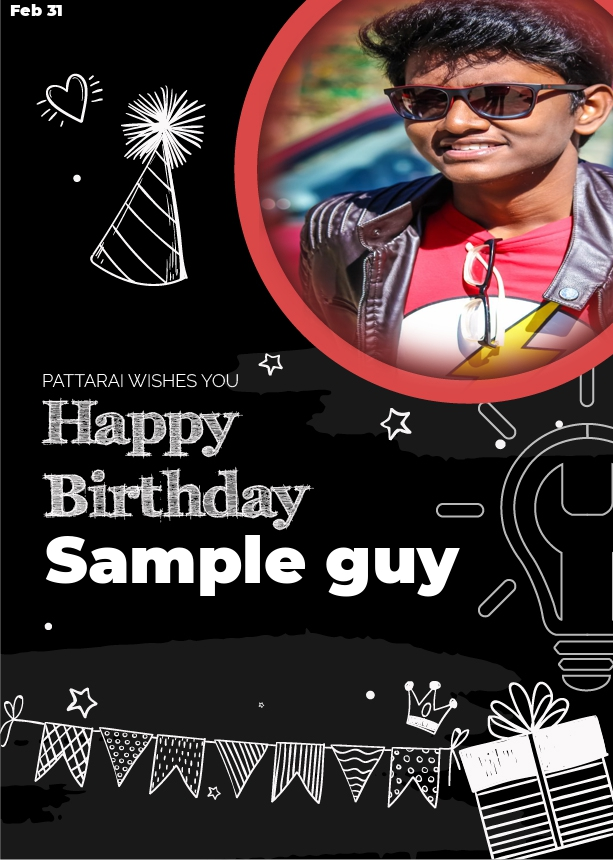
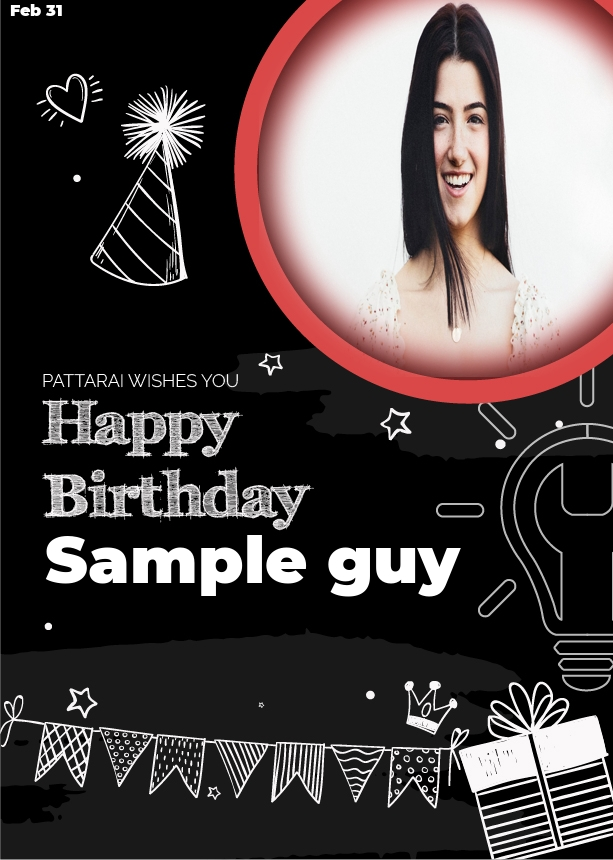
Crop image

diff --git a/main.py b/main.py
@@ -4,18 +4,35 @@ from PIL import ImageDraw
 
 im1 = Image.open('birthday_template.jpg')
 
-im2 = Image.open('Fabian Ferno.jpg')
+im2 = Image.open('eg.jpg')
 width  = im2.size[0]
 height = im2.size[1]
-ar = round((width / height),2)
+#ar = round((width / height),2)
 #print (ar)
-if ar == 1.77:
-    size = (400, 400)
-    im2 = im2.resize(size)    
+if width > 600 and height > 800:
+    if width == height:
+        size = (400, 400)
+        im2 = im2.resize(size)
 
-elif ar >= 0.67 and ar < 1.77:
-    size = (500, 500)
-    im2 = im2.resize(size)
+    elif width > height:
+        
+        left = 0
+        top = 0
+        right = width
+        bottom = height
+        im2 = im2.crop((left, top, right, bottom))
+       
+        size = (400, 400)
+        im2 = im2.resize(size)
+
+    else: 
+        left = 0
+        top = 0
+        right = width
+        bottom = width
+        im2 = im2.crop((left, top, right, bottom))
+        size = (400, 400)
+        im2 = im2.resize(size)
 
 else:
     size = (400, 400)
